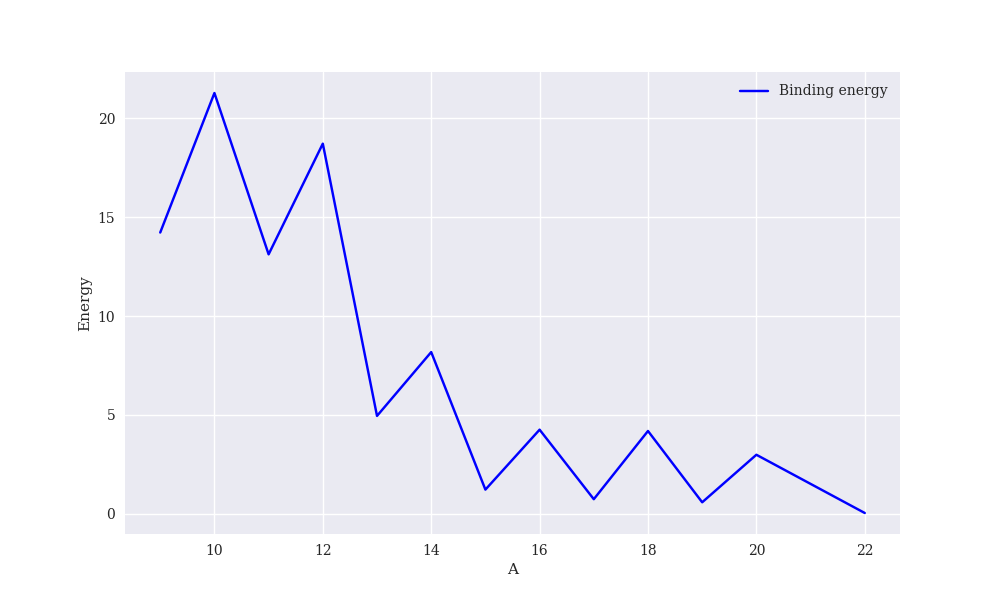
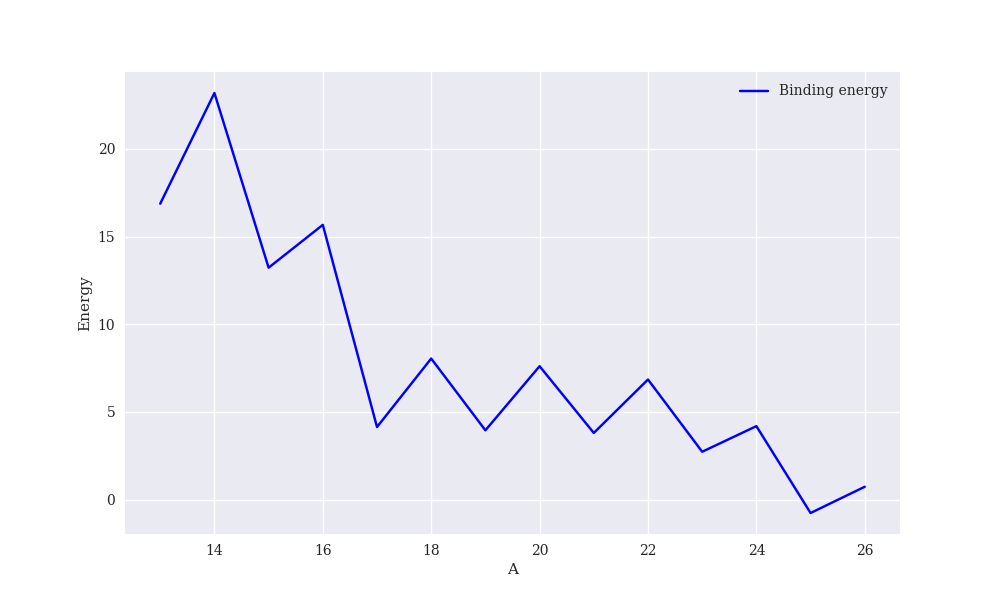
Added random forests to fits of masses

diff --git a/doc/Programs/MassForests.py b/doc/Programs/MassForests.py
@@ -1,0 +1,105 @@
+# Regression analysis using scikit-learn functions
+# Common imports
+import numpy as np
+import pandas as pd
+import matplotlib.pyplot as plt
+import sklearn.linear_model as skl
+from sklearn.model_selection import train_test_split
+from sklearn.metrics import mean_squared_error, r2_score, mean_absolute_error
+import os
+
+# Where to save the figures and data files
+PROJECT_ROOT_DIR = "Results"
+FIGURE_ID = "Results/FigureFiles"
+DATA_ID = "DataFiles/"
+
+if not os.path.exists(PROJECT_ROOT_DIR):
+    os.mkdir(PROJECT_ROOT_DIR)
+
+if not os.path.exists(FIGURE_ID):
+    os.makedirs(FIGURE_ID)
+
+if not os.path.exists(DATA_ID):
+    os.makedirs(DATA_ID)
+
+def image_path(fig_id):
+    return os.path.join(FIGURE_ID, fig_id)
+
+def data_path(dat_id):
+    return os.path.join(DATA_ID, dat_id)
+
+def save_fig(fig_id):
+    plt.savefig(image_path(fig_id) + ".png", format='png')
+
+infile = open(data_path("MassEval2016.dat"),'r')
+
+
+# Read the experimental data with Pandas
+Masses = pd.read_fwf(infile, usecols=(2,3,4,6,11),
+              names=('N', 'Z', 'A', 'Element', 'Ebinding'),
+              widths=(1,3,5,5,5,1,3,4,1,13,11,11,9,1,2,11,9,1,3,1,12,11,1),
+              header=39,
+              index_col=False)
+
+# Extrapolated values are indicated by '#' in place of the decimal place, so
+# the Ebinding column won't be numeric. Coerce to float and drop these entries.
+Masses['Ebinding'] = pd.to_numeric(Masses['Ebinding'], errors='coerce')
+Masses = Masses.dropna()
+# Convert from keV to MeV.
+Masses['Ebinding'] /= 1000
+
+# Group the DataFrame by nucleon number, A.
+Masses = Masses.groupby('A')
+# Find the rows of the grouped DataFrame with the maximum binding energy.
+Masses = Masses.apply(lambda t: t[t.Ebinding==t.Ebinding.max()])
+A = Masses['A']
+Z = Masses['Z']
+N = Masses['N']
+Element = Masses['Element']
+Energies = Masses['Ebinding']
+# Now we set up the design matrix X
+X = np.zeros((5,len(A)))
+X[4,:] = A**(-1.0)
+X[3,:] = A**(-1.0/3.0)
+X[2,:] = A**(2.0/3.0)
+X[1,:] = A
+X[0,:] = 1
+
+
+#Decision Tree Regression
+from sklearn.tree import DecisionTreeRegressor
+regr_1=DecisionTreeRegressor(max_depth=5)
+regr_2=DecisionTreeRegressor(max_depth=7)
+regr_3=DecisionTreeRegressor(max_depth=9)
+regr_1.fit(X.T, Energies)
+regr_2.fit(X.T, Energies)
+regr_3.fit(X.T, Energies)
+
+
+y_1 = regr_1.predict(X.T)
+y_2 = regr_2.predict(X.T)
+y_3=regr_3.predict(X.T)
+Masses['Eapprox'] = y_1
+# Plot the results
+plt.figure()
+plt.plot(A, Energies, color="blue", label="Data", linewidth=2)
+plt.plot(A, y_1, color="red", label="max_depth=5", linewidth=2)
+plt.plot(A, y_2, color="green", label="max_depth=7", linewidth=2)
+plt.plot(A, y_3, color="m", label="max_depth=9", linewidth=2)
+
+plt.xlabel("$A$")
+plt.ylabel("$E$[MeV]")
+plt.title("Decision Tree Regression")
+plt.legend()
+save_fig("Masses2016Trees")
+plt.show()
+print(Masses)
+print(np.mean( (Energies-y_1)**2))
+
+
+
+
+
+
+
+

diff --git a/doc/Programs/SeparationEnergy.py b/doc/Programs/SeparationEnergy.py
@@ -64,11 +64,11 @@ Element = Masses['Element']
 Energies = Masses['Ebinding']*A
 
 df = pd.DataFrame({'A':A,'Z':Z, 'N':N,'Element':Element,'Energies':Energies})
-Oxygen = df.loc[lambda df: df.Z==8, :]
-Oxygen['NSeparationEnergies'] = Oxygen['Energies'].diff(+1)
-# preparing for plot
-x = Oxygen.A
-y = Oxygen.NSeparationEnergies 
-MakePlot([x], [y], ['b'], ['Binding energy'], ['A','Energy'])
-save_fig('Oxygen')
+Nucleus = df.loc[lambda df: df.Z==8, :]
+# drop cases with no number
+Nucleus = Nucleus.dropna()
+print(Nucleus)
+Nucleus['NeutronSeparationEnergies'] = Nucleus['Energies'].diff(+1)
+MakePlot([Nucleus.A], [Nucleus.NeutronSeparationEnergies], ['b'], ['Neutron Separation Energy'], ['$A$','$S_n$'])
+save_fig('Nucleus')
 plt.show()
